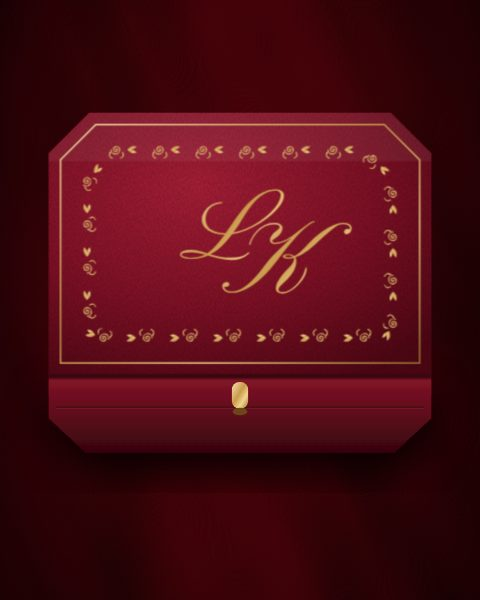
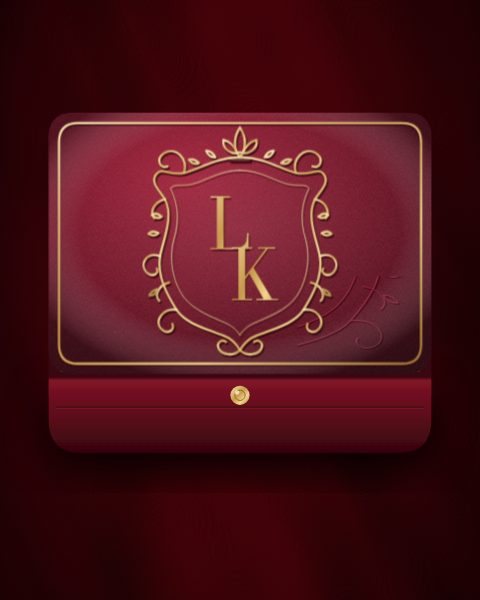
Velvet Box: original Unveil lid with baroque crest
Replace the octagonal garland lid (too close to a well-known jeweller's box)
with a rounded wine-velvet box, gold piping, an embossed baroque crest around
the couple's initials and tone-on-tone scrollwork.

Claude-Session: https://claude.ai/code/session_012DBsYrdLtcfpWFFtZrrquA

diff --git a/docs/velvet.html b/docs/velvet.html
@@ -261,13 +261,13 @@ textarea { min-height: 80px; resize: vertical; }
         <filter id="shadow" x="-30%" y="-30%" width="160%" height="180%"><feDropShadow dx="0" dy="30" stdDeviation="26" flood-color="#000" flood-opacity=".75"/></filter>
       </defs>
       <g filter="url(#shadow)">
-        <polygon points="40,385 560,385 560,445 510,492 90,492 40,445" fill="url(#front)"/>
+        <path d="M40,385 H560 V448 Q560,492 516,492 H84 Q40,492 40,448 Z" fill="url(#front)"/>
         <polygon points="40,385 560,385 560,392 40,392" fill="#2c040a" opacity=".5"/>
         <line x1="50" y1="430" x2="550" y2="430" stroke="#2c040a" stroke-width="1.5" opacity=".6"/>
         <line x1="50" y1="432" x2="550" y2="432" stroke="#a42a40" stroke-width="1" opacity=".35"/>
       </g>
-      <polygon points="95,30 505,30 560,85 560,390 40,390 40,85" fill="#3a0710"/>
-      <polygon points="104,44 496,44 544,92 544,382 56,382 56,92" fill="url(#satin)"/>
+      <path d="M74,30 H526 Q560,30 560,64 V390 H40 V64 Q40,30 74,30 Z" fill="#3a0710"/>
+      <path d="M84,44 H516 Q544,44 544,72 V382 H56 V72 Q56,44 84,44 Z" fill="url(#satin)"/>
       <g class="card-in">
         <rect x="132" y="104" width="336" height="238" fill="#fcf7ec" stroke="url(#gold)" stroke-width="3"/>
         <rect x="144" y="116" width="312" height="214" fill="none" stroke="#c9a35b" stroke-width="1"/>
@@ -275,8 +275,7 @@ textarea { min-height: 80px; resize: vertical; }
         <line x1="230" y1="240" x2="370" y2="240" stroke="#c9a35b" stroke-width="1"/>
         <text x="300" y="276" text-anchor="middle" font-family="Jost, sans-serif" font-size="13" letter-spacing="6" fill="#a8813c" id="cardNames">LARA &amp; KARIM</text>
       </g>
-      <rect x="289" y="396" width="22" height="36" rx="10" fill="url(#gold)"/>
-      <ellipse cx="300" cy="436" rx="10" ry="5" fill="#6b4718"/>
+      <circle cx="300" cy="414" r="13" fill="url(#gold)"/><circle cx="300" cy="414" r="7" fill="none" stroke="#8a6326" stroke-width="1.2"/><circle cx="296" cy="410" r="3" fill="#fff6d8" opacity=".7"/>
     </svg>
     <div class="box-glow"></div>
 
@@ -284,29 +283,58 @@ textarea { min-height: 80px; resize: vertical; }
       <svg class="front" viewBox="0 0 600 520" aria-hidden="true">
         <defs>
           <linearGradient id="gold2" x1="0" y1="0" x2="1" y2="1"><stop offset="0" stop-color="#f8e4ae"/><stop offset=".45" stop-color="#c99a4b"/><stop offset=".7" stop-color="#f2d58e"/><stop offset="1" stop-color="#9c7432"/></linearGradient>
-          <radialGradient id="leather" cx="38%" cy="28%" r="85%"><stop offset="0" stop-color="#b8223d"/><stop offset=".55" stop-color="#8c1229"/><stop offset="1" stop-color="#560716"/></radialGradient>
-          <filter id="grain"><feTurbulence type="fractalNoise" baseFrequency=".85 .3" numOctaves="2" seed="5"/><feColorMatrix values="0 0 0 0 0  0 0 0 0 0  0 0 0 0 0  0 0 0 .32 0"/><feComposite in2="SourceGraphic" operator="in"/></filter>
-          <linearGradient id="sheen" x1="0" y1="0" x2="1" y2="0"><stop offset="0" stop-color="#fff" stop-opacity="0"/><stop offset=".5" stop-color="#fff" stop-opacity=".16"/><stop offset="1" stop-color="#fff" stop-opacity="0"/></linearGradient>
-          <clipPath id="lidClip"><polygon points="95,30 505,30 560,85 560,385 40,385 40,85"/></clipPath>
-          <symbol id="grose" viewBox="-12 -12 24 24"><g fill="none" stroke="url(#gold2)" stroke-width="1.3" stroke-linecap="round">
-            <path d="M0,0 m-1,0 a1,1 0 1,1 2,0 a2.2,2.2 0 1,1 -4.4,0 a3.6,3.6 0 1,1 7.2,0 a5,5 0 1,1 -10,.4"/>
-            <path d="M-7,3 q-3,5 2,7 M7,3 q3,5 -2,7" /></g></symbol>
+          <radialGradient id="vlid" cx="36%" cy="24%" r="90%"><stop offset="0" stop-color="#9c1a33"/><stop offset=".5" stop-color="#6e0f22"/><stop offset="1" stop-color="#3f0612"/></radialGradient>
+          <radialGradient id="dome" cx="50%" cy="45%" r="60%"><stop offset="0" stop-color="#fff" stop-opacity=".07"/><stop offset=".7" stop-color="#fff" stop-opacity="0"/><stop offset="1" stop-color="#000" stop-opacity=".35"/></radialGradient>
+          <filter id="pile" x="0" y="0" width="100%" height="100%"><feTurbulence type="fractalNoise" baseFrequency="1.1" numOctaves="2" seed="9"/><feColorMatrix values="0 0 0 0 1  0 0 0 0 .85  0 0 0 0 .9  0 0 0 .13 0"/><feComposite in2="SourceGraphic" operator="in"/></filter>
+          <linearGradient id="sheen" x1="0" y1="0" x2="1" y2="0"><stop offset="0" stop-color="#fff" stop-opacity="0"/><stop offset=".5" stop-color="#ffe9d0" stop-opacity=".14"/><stop offset="1" stop-color="#fff" stop-opacity="0"/></linearGradient>
+          <clipPath id="lidClip"><path d="M74,30 H526 Q560,30 560,64 V351 Q560,385 526,385 H74 Q40,385 40,351 V64 Q40,30 74,30 Z"/></clipPath>
+          <!-- Half of the baroque crest (mirrored for the other half). Original Unveil artwork. -->
+          <g id="crestHalf" fill="none" stroke-linecap="round" stroke-linejoin="round">
+            <path d="M0,-112 C30,-112 50,-97 68,-93 C86,-89 95,-101 102,-91 C109,-81 97,-71 91,-61 C80,-41 93,-12 97,8 C101,33 87,57 77,73 C66,90 41,96 21,104 C10,108 4,115 0,122"/>
+            <path d="M0,-96 C24,-96 42,-83 58,-79 C72,-76 80,-80 84,-74 C76,-58 72,-38 80,-12 C86,10 82,38 68,58 C56,74 34,82 16,90 C8,94 3,99 0,104" stroke-width=".8"/>
+            <path d="M68,-93 C62,-111 79,-125 92,-117 C103,-110 97,-97 88,-101"/>
+            <path d="M97,8 C113,2 122,17 114,27 C107,35 97,29 101,23"/>
+            <path d="M77,73 C93,71 104,85 96,96 C89,104 78,98 82,90"/>
+            <path d="M0,122 C8,130 22,128 26,120 C29,113 22,108 17,112"/>
+            <path d="M91,-61 C104,-58 110,-46 104,-38 M86,40 C100,44 104,56 98,62"/>
+            <g class="leaves"><path d="M95,-40 q7,-6 12,-2 q-6,6 -12,2z M99,-20 q8,-4 12,1 q-7,4 -12,-1z M100,48 q8,2 10,8 q-8,0 -10,-8z M30,-112 q4,-8 11,-8 q-3,8 -11,8z M50,-105 q6,-6 12,-4 q-5,7 -12,4z"/></g>
+          </g>
+          <g id="fleuron" fill="none" stroke-linecap="round">
+            <path d="M0,-112 C-9,-123 -7,-138 0,-148 C7,-138 9,-123 0,-112 Z"/>
+            <path d="M0,-118 C-10,-114 -22,-122 -20,-133 C-12,-131 -6,-124 -3,-117 M0,-118 C10,-114 22,-122 20,-133 C12,-131 6,-124 3,-117"/>
+            <path d="M-12,-108 H12"/>
+          </g>
+          <g id="crest"><use href="#crestHalf"/><use href="#crestHalf" transform="scale(-1 1)"/><use href="#fleuron"/></g>
         </defs>
-        <polygon points="95,30 505,30 560,85 560,385 40,385 40,85" fill="url(#leather)"/>
-        <polygon points="95,30 505,30 560,85 560,385 40,385 40,85" fill="#000" filter="url(#grain)"/>
+        <path d="M74,30 H526 Q560,30 560,64 V351 Q560,385 526,385 H74 Q40,385 40,351 V64 Q40,30 74,30 Z" fill="url(#vlid)"/>
+        <path d="M74,30 H526 Q560,30 560,64 V351 Q560,385 526,385 H74 Q40,385 40,351 V64 Q40,30 74,30 Z" fill="#000" filter="url(#pile)"/>
+        <!-- tone-on-tone embossed scrollwork across the lid -->
+        <g clip-path="url(#lidClip)" transform="translate(300 210) scale(1.95 1.4)" stroke-width="1.1">
+          <use href="#crest" stroke="#24020a" opacity=".7" transform="translate(.9 1.1)"/>
+          <use href="#crest" stroke="#c23752" opacity=".55"/>
+        </g>
+        <path d="M74,30 H526 Q560,30 560,64 V351 Q560,385 526,385 H74 Q40,385 40,351 V64 Q40,30 74,30 Z" fill="url(#dome)"/>
         <g clip-path="url(#lidClip)"><rect class="lid-sheen" x="-160" y="0" width="160" height="520" fill="url(#sheen)" transform="skewX(-20)"/></g>
-        <polygon points="95,30 505,30 560,85 560,96 40,96 40,85" fill="#fff" opacity=".06"/>
-        <polygon points="104,46 496,46 544,94 544,370 56,370 56,94" fill="none" stroke="url(#gold2)" stroke-width="2"/>
-        <path id="garland" d="M132,80 L468,80 L508,120 L508,336 L92,336 L92,120 Z" fill="none"/>
-        <g id="roses"></g>
+        <!-- gold piping -->
+        <path d="M80,44 H520 Q546,44 546,70 V345 Q546,371 520,371 H80 Q54,371 54,345 V70 Q54,44 80,44 Z" fill="none" stroke="#2a030a" stroke-width="4.5" opacity=".5" transform="translate(0 1.5)"/>
+        <path d="M80,44 H520 Q546,44 546,70 V345 Q546,371 520,371 H80 Q54,371 54,345 V70 Q54,44 80,44 Z" fill="none" stroke="url(#gold2)" stroke-width="3.2"/>
+        <path d="M80,44 H520 Q546,44 546,70" fill="none" stroke="#fff6d8" stroke-width="1" opacity=".6"/>
+        <!-- the embossed gold crest -->
+        <g transform="translate(300 216) scale(1.12)">
+          <use href="#crest" stroke="#26020a" stroke-width="3.4" opacity=".75" transform="translate(1.4 2)"/>
+          <use href="#crest" stroke="url(#gold2)" stroke-width="2.8"/>
+          <use href="#crest" stroke="#fff3cf" stroke-width=".7" opacity=".55" transform="translate(-.6 -.8)"/>
+        </g>
         <g id="mono" transform="translate(300 222)">
-          <text id="m1" text-anchor="middle" x="-30" y="6" font-family="Pinyon Script, cursive" font-size="138" fill="url(#gold2)">L</text>
-          <text id="m2" text-anchor="middle" x="34" y="52" font-family="Pinyon Script, cursive" font-size="138" fill="url(#gold2)">K</text>
+          <text id="m1" text-anchor="middle" x="-14" y="-6" font-family="Bodoni Moda, Didot, Georgia, serif" font-size="96" fill="#2a030a" opacity=".6" dx="1.5" dy="2">L</text>
+          <text text-anchor="middle" x="-14" y="-6" font-family="Bodoni Moda, Didot, Georgia, serif" font-size="96" fill="url(#gold2)" class="mi1">L</text>
+          <text id="m2" text-anchor="middle" x="20" y="62" font-family="Bodoni Moda, Didot, Georgia, serif" font-size="96" fill="#2a030a" opacity=".6" dx="1.5" dy="2">K</text>
+          <text text-anchor="middle" x="20" y="62" font-family="Bodoni Moda, Didot, Georgia, serif" font-size="96" fill="url(#gold2)" class="mi2">K</text>
         </g>
       </svg>
       <svg class="back" viewBox="0 0 600 520" aria-hidden="true">
-        <polygon points="95,30 505,30 560,85 560,385 40,385 40,85" fill="#e7d4ad"/>
-        <polygon points="110,48 490,48 540,98 540,368 60,368 60,98" fill="#f3e5c6" stroke="#c9a35b" stroke-width="1.5" stroke-dasharray="5 4"/>
+        <path d="M74,30 H526 Q560,30 560,64 V351 Q560,385 526,385 H74 Q40,385 40,351 V64 Q40,30 74,30 Z" fill="#e3cfa6"/>
+        <path d="M84,48 H516 Q540,48 540,72 V344 Q540,368 516,368 H84 Q60,368 60,344 V72 Q60,48 84,48 Z" fill="#f3e5c6" stroke="#c9a35b" stroke-width="1.5" stroke-dasharray="5 4"/>
       </svg>
     </div>
   </div>
@@ -518,25 +546,12 @@ textarea { min-height: 80px; resize: vertical; }
     palette: ['#f3ece0', '#d8b77a', '#a3283c', '#6e1423', '#2a1014'], notes: [{ title: 'Gifts', text: 'Your presence is our gift. A wishing well will be at the venue.' }, { title: 'An adults-only evening', text: 'We adore your little ones, yet this night is for grown-ups.' }, { title: 'Unplugged ceremony', text: 'Please keep phones away during the vows. Our photographer will share every picture.' }],
     meals: ['Meat', 'Fish', 'Vegetarian'], replyBy: '1 May 2027' }, guest: null, reply: null };
 
-  /* ---------- Art: garland on the lid, roses and light in the hall ---------- */
+  /* ---------- Art: roses and light in the hall ---------- */
   function use(parent, id, x, y, w, h, rot) {
     var u = document.createElementNS(NS, 'use'); u.setAttribute('href', '#' + id);
     u.setAttribute('x', -w / 2); u.setAttribute('y', -h / 2); u.setAttribute('width', w); u.setAttribute('height', h);
     var g = document.createElementNS(NS, 'g'); g.setAttribute('transform', 'translate(' + x + ' ' + y + ') rotate(' + (rot || 0) + ')'); g.appendChild(u); parent.appendChild(g); return g;
   }
-  (function garland() {
-    var path = $('garland'), g = $('roses'), L = path.getTotalLength(), n = 22;
-    for (var i = 0; i < n; i++) {
-      var p = path.getPointAtLength(L * i / n), q2 = path.getPointAtLength(L * (i + .5) / n), a = Math.atan2(q2.y - p.y, q2.x - p.x) * 180 / Math.PI;
-      use(g, 'grose', p.x, p.y, 28, 28, a);
-      var mid = { x: (p.x + q2.x) / 2, y: (p.y + q2.y) / 2 };
-      [-1, 1].forEach(function (s) {
-        var e = document.createElementNS(NS, 'path');
-        e.setAttribute('d', 'M0,0 q6,' + (-7 * s) + ' 13,' + (-4 * s) + ' q-6,' + (6 * s) + ' -13,' + (4 * s) + 'z');
-        e.setAttribute('fill', 'url(#gold2)'); e.setAttribute('transform', 'translate(' + mid.x + ' ' + mid.y + ') rotate(' + a + ')'); g.appendChild(e);
-      });
-    }
-  })();
   (function hall() {
     var hr = $('hallRoses');
     [[10, 760, 0, 'leaf', 60, 22, -30], [70, 780, 0, 'leaf', 56, 20, 25], [380, 760, 0, 'leaf', 60, 22, 210], [440, 790, 0, 'leaf', 56, 20, 150]].forEach(function (l) { use(hr, l[3], l[0], l[1], l[4], l[5], l[6]); });
@@ -581,7 +596,7 @@ textarea { min-height: 80px; resize: vertical; }
     var longDate = fmt({ weekday: 'long', day: 'numeric', month: 'long', year: 'numeric' });
     var ini1 = w.partner1.trim().charAt(0).toUpperCase(), ini2 = w.partner2.trim().charAt(0).toUpperCase();
 
-    $('m1').textContent = ini1; $('m2').textContent = ini2; $('cardNames').textContent = couple.toUpperCase();
+    $('m1').textContent = ini1; $('m2').textContent = ini2; document.querySelector('.mi1').textContent = ini1; document.querySelector('.mi2').textContent = ini2; $('cardNames').textContent = couple.toUpperCase();
     $('introNames').textContent = couple;
     [['heroNames'], ['byeNames']].forEach(function (k) { var e = $(k[0]); e.children[0].textContent = w.partner1; e.children[2].textContent = w.partner2; });
     $('heroDate').textContent = fmt({ day: 'numeric', month: 'long', year: 'numeric' });

diff --git a/docs/invitations.html b/docs/invitations.html
@@ -81,7 +81,7 @@
         <a class="d-art" href="velvet.html?demo" aria-label="Open The Velvet Box"><span class="tag">NEW</span><span class="in jb"><img src="assets/velvet-box/thumb.jpg" alt="" width="480" height="600" loading="lazy"></span><span class="try">TAP TO OPEN</span></a>
         <span class="occ">WEDDINGS · ENGAGEMENTS · CELEBRATIONS</span>
         <h3>The Velvet Box</h3>
-        <p>A jewellery box on wine velvet, engraved with your initials. The lid lifts, and guests glide into a gold-arched hall. Then a letter to turn over, a date to brush gold away from, your day on a golden line, and their reply.</p>
+        <p>A wine velvet box with gold piping and an embossed baroque crest around your initials. The lid lifts, and guests glide into a gold-arched hall. Then a letter to turn over, a date to brush gold away from, your day on a golden line, and their reply.</p>
         <div class="row"><a class="btn btn-line btn-sm" href="velvet.html?demo">OPEN IT</a><a class="btn btn-foil btn-sm" href="index.html#packages">CHOOSE</a></div>
       </article>
       <article class="design card floral" data-occ="wedding engagement celebration">
